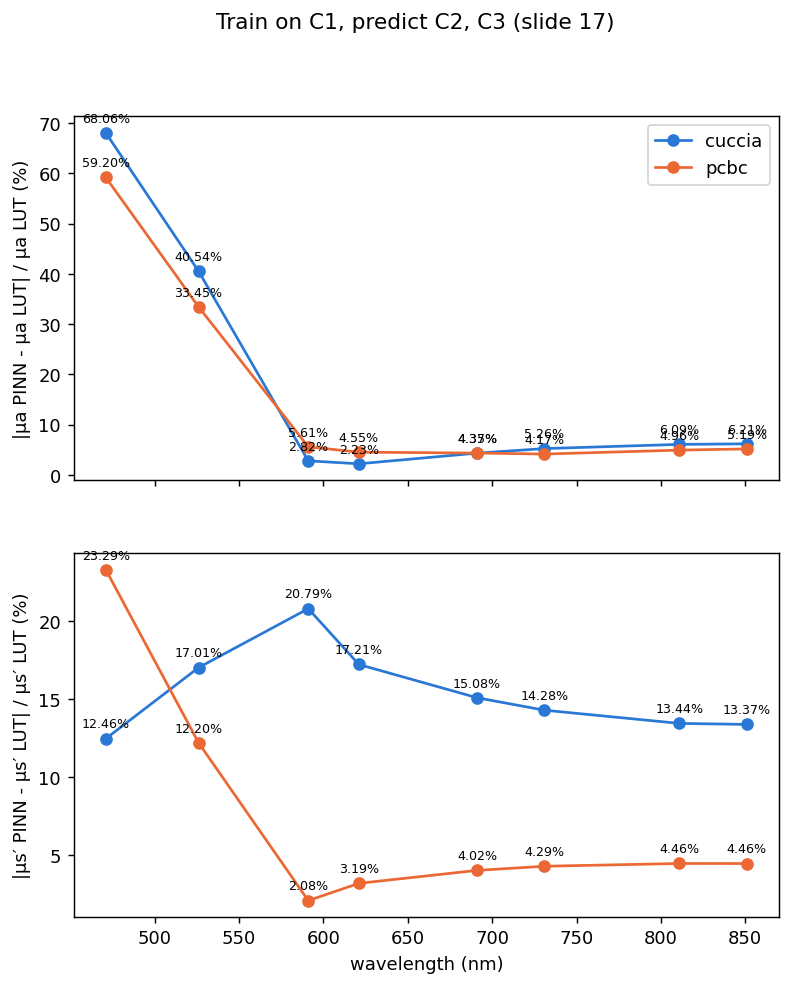
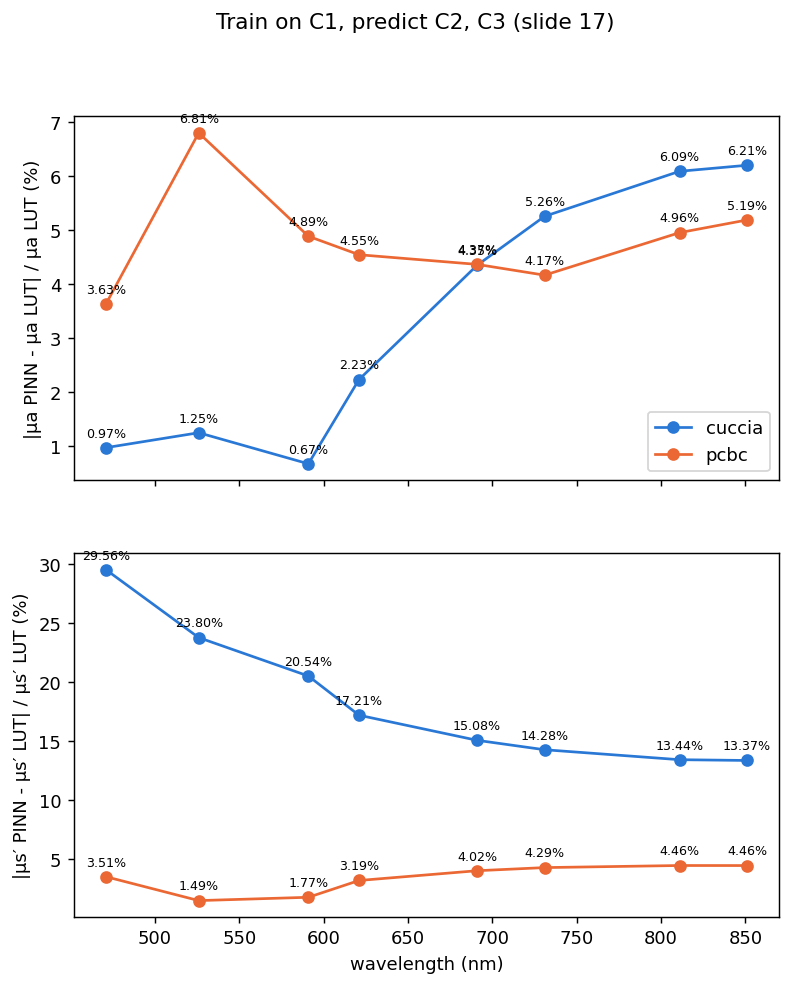
README: PINN results after per-file clamp detection (full 10k-step run)
PCBC is now within ~2-7% on mu_a and mu_s' at every wavelength; the
471/526 nm columns no longer grade C3's clamped values. Adds pixel
counts per wavelength and flags the ablation table as a pre-fix quick run.

diff --git a/README.md b/README.md
@@ -161,22 +161,27 @@ Cuccia gets μₐ to 3.0% but μₛ′ only to 17.8%; PCBC gets 4.3% and 3.3%.
 
 | Wavelength (nm) | 471 | 526 | 591 | 621 | 691 | 731 | 811 | 851 |
 |---|---|---|---|---|---|---|---|---|
-| PCBC μₐ error % | 59.2 | 33.4 | 5.6 | 4.5 | 4.4 | 4.2 | 5.0 | 5.2 |
-| PCBC μₛ′ error % | 23.3 | 12.2 | 2.1 | 3.2 | 4.0 | 4.3 | 4.5 | 4.5 |
-| Cuccia μₐ error % | 68.1 | 40.5 | 2.8 | 2.2 | 4.4 | 5.3 | 6.1 | 6.2 |
-| Cuccia μₛ′ error % | 12.5 | 17.0 | 20.8 | 17.2 | 15.1 | 14.3 | 13.4 | 13.4 |
+| PCBC μₐ error % | 3.6 | 6.8 | 4.9 | 4.6 | 4.4 | 4.2 | 5.0 | 5.2 |
+| PCBC μₛ′ error % | 3.5 | 1.5 | 1.8 | 3.2 | 4.0 | 4.3 | 4.5 | 4.5 |
+| Cuccia μₐ error % | 1.0 | 1.3 | 0.7 | 2.2 | 4.4 | 5.3 | 6.1 | 6.2 |
+| Cuccia μₛ′ error % | 29.6 | 23.8 | 20.5 | 17.2 | 15.1 | 14.3 | 13.4 | 13.4 |
+| Pixels graded (C2 + C3) | 10k | 177k | 3.2M | 3.7M | 3.7M | 3.7M | 3.7M | 3.7M |
+
+PCBC gets both properties to within about 2 to 7% at every wavelength. Cuccia gets μₐ
+well but is 13 to 30% off on μₛ′ everywhere, because the PINN learns its physics from
+Cuccia's forward model and inherits that model's scattering bias.
 
 Per-pixel μₐ error on the held-out C2-Arm-Left. 471 nm is empty and 526 nm is sparse because
-almost every pixel there was capped in the lab's reference map.
+almost every pixel there was clamped in the lab's reference map and is excluded.
 
 ![PINN mu_a error maps](docs/real_results/03b_maps_mua_C2-Arm-Left.png)
 
-**Read the 471 and 526 nm numbers with care.** C3's reference μₐ is capped at 0.1955 rather
-than 0.2, so `ref_caps: {mua: 0.2}` does not catch it, and those capped values are still being
-graded. Inverting C3's Rd through the LUT disagrees with its supplied μₐ by 50 to 97% at
-471/526 nm, against under 0.5% at 621 and 811 nm. Those two columns will change once C3's cap
-is handled. Even before that, only ~2% (471 nm) and ~20% (526 nm) of ROI pixels have a usable
-reference value.
+**About 471 and 526 nm.** The lab's LUT inversion clamped μₐ on most pixels at these
+wavelengths (at 0.2 for most subjects, 0.1955 for C3). `ref_caps: auto` detects the clamp in
+each file and drops those pixels, so these columns are graded on far fewer pixels (see the last
+row), and only on the ones with lower absorption, which are the easier ones. Before the per-file
+clamp detection, C3's clamped values were graded as real and these two columns read 59% and 33%
+(PCBC μₐ).
 
 ## Code map
 
@@ -196,6 +201,10 @@ reference value.
 With the lab's real data and LUT, the code successfully reproduces the reference study's findings:
 1. **Forward model accuracy**: PCBC significantly outperforms Cuccia, particularly at shorter wavelengths (471 and 526 nm).
 2. **PINN training**: As shown in the ablations below, training exclusively on the longer wavelengths (811/851 nm) noticeably improves the held-out $\mu_s^\prime$ error compared to training on all wavelengths.
+
+The ablation table below comes from a `--quick` (300-step) run made before per-file clamp
+detection, so it still includes C3's clamped 471/526 nm values; rerun
+`python scripts/04_ablation.py` for current full-length numbers.
 
 ```text
             run  model                                               train                     wavelengths  held_out_mua_%  held_out_musp_%
